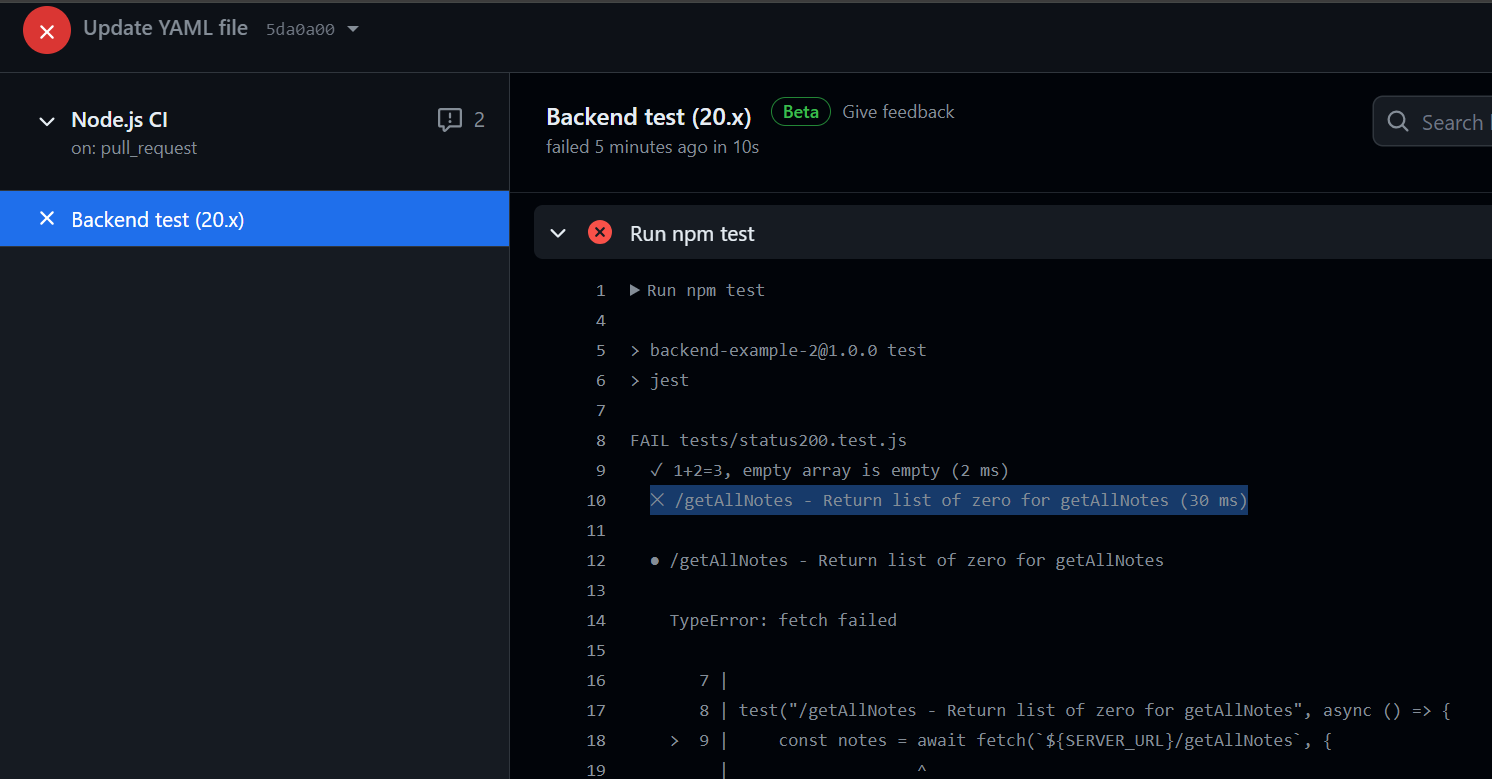
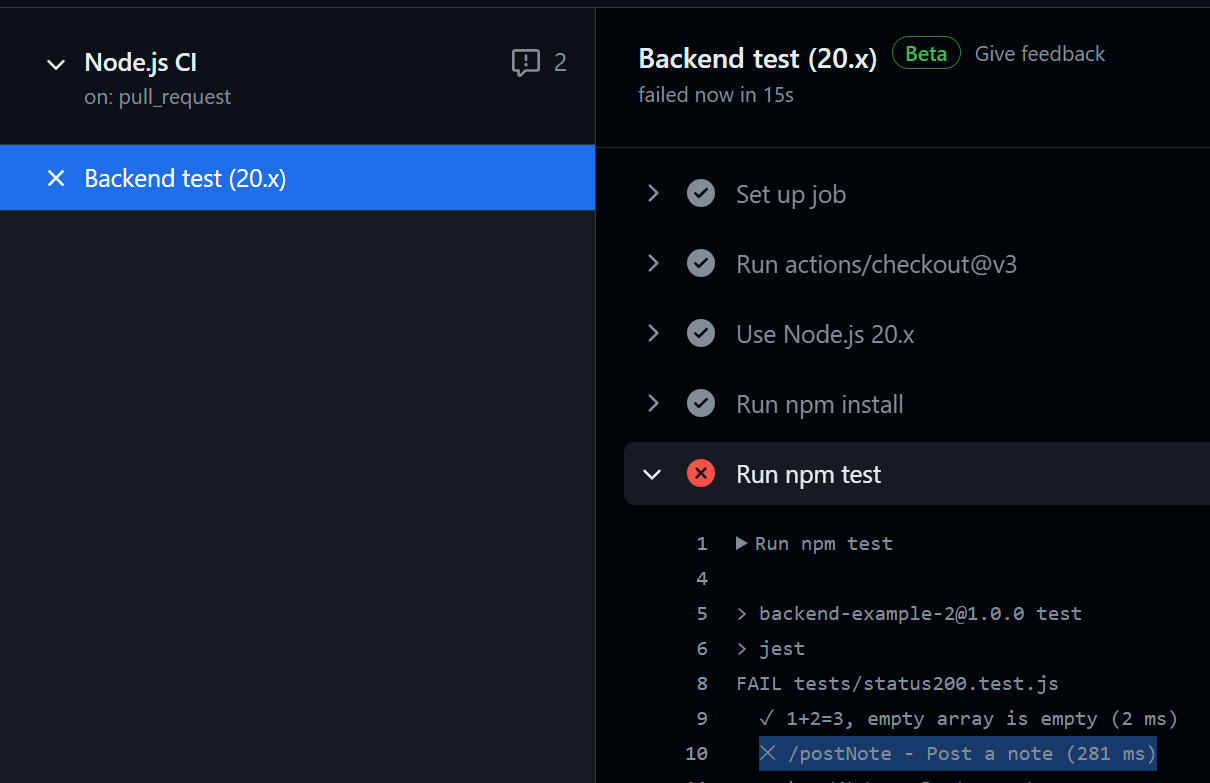
Change tests + starter code

diff --git a/README.md b/README.md
@@ -88,29 +88,35 @@ A lot of the visualization for this lab will be shown through GitHub Desktop, bu
    ```javascript
    const SERVER_URL = "http://localhost:4000";
 
-   test("/getAllNotes - Return list of zero for getAllNotes", async () => {
-     const notesRes = await fetch(`${SERVER_URL}/getAllNotes`, {
-       method: "GET",
+   test("/postNote - Post a note", async () => {
+     const title = "NoteTitleTest";
+     const content = "NoteTitleContent";
+
+     const postNoteRes = await fetch(`${SERVER_URL}/postNote`, {
+       method: "POST",
        headers: {
          "Content-Type": "application/json",
        },
+       body: JSON.stringify({
+         title: title,
+         content: content,
+       }),
      });
 
-     const notesBody = await notesRes.json();
-     const notes = notesBody.response;
+     const postNoteBody = await postNoteRes.json();
 
-     expect(notesRes.status).toBe(200);
-     expect(notes.length).toBe(0);
+     expect(postNoteRes.status).toBe(200);
+     expect(postNoteBody.response).toBe("Note added succesfully.");
    });
    ```
 
-   This is similar to how our frontend would handle a response from our backend, using `fetch` to ping the backend, but we will instead use the response to verify that a) the API returns the right response and b) the `notes` array is of the right length given no notes are in the database.
+   This is similar to how our frontend would handle a response from our backend, using `fetch` to ping the backend, but we will instead use the response to verify that a) the API returns the right status code and b) the response string is correct.
    Run `npm test` again, and verify the code works:
 
    ````
     PASS  tests/status200.test.js
     √ 1+2=3, empty array is empty (4 ms)
-    √ /getAllNotes - Return list of zero for getAllNotes (113 ms)
+    √ /postNote - Post a note (113 ms)
 
     Test Suites: 1 passed, 1 total
     Tests:       2 passed, 2 total
@@ -127,13 +133,15 @@ A lot of the visualization for this lab will be shown through GitHub Desktop, bu
 6. Go back to GitHub, and click on the `Actions` tab. We will set up our first workflow for automating code testing using Node.js and the Jest test suite we have developed so far. Search for `Node.js` on the search bar, and click `Configure` on the workflow provided by GitHub Actions.
    ![](/images/5.png)
 
-   This leads to a Node.js workflow template.
-   Before breaking down each component of this template, it is **_heavily encouraged_** to read the [About workflows](https://docs.github.com/en/actions/using-workflows/about-workflows) page from GitHub Actions to understand workflow basics (up until the end of `Understanding the workflow file`).
-   The breakdown proceeds as follows:
-   **_[Add breakdown here]_**
-   We can press `Commit changes...` on the top right to add the YAML file to our repository (commiting directly to the `main` branch).
-   If we go to the `Actions` tab again, we can see that our workflow was ran once, with three different jobs that have _failed._ This is normal, as our workflow has not been configured correctly. We will fix this soon, but you are free to explore the steps that were ran during the process.
-   ![](/images/6.png)
+This leads to a Node.js workflow template.
+Before breaking down each component of this template, it is **_heavily encouraged_** to read the [About workflows](https://docs.github.com/en/actions/using-workflows/about-workflows) page from GitHub Actions to understand workflow basics (up until the end of `Understanding the workflow file`).
+
+The breakdown proceeds as follows:
+**_[Add breakdown here]_**
+We can press `Commit changes...` on the top right to add the YAML file to our repository (commiting directly to the `main` branch).
+If we go to the `Actions` tab again, we can see that our workflow was ran once, with three different jobs that have _failed._
+This is normal, as our workflow has not been configured correctly. We will fix this soon, but you are free to explore the steps that were ran during the process.
+![](/images/6.png)
 
 7. Go to the `Settings` tab, then under `Rules` click `Ruleset`. [Rulesets](https://docs.github.com/en/repositories/configuring-branches-and-merges-in-your-repository/managing-rulesets/available-rules-for-rulesets) help you to control how people can interact with branches and tags in a repository. We will set up rules that prevent direct commits to our main branch, such that pull requests that pass certain workflow jobs will be required to make any changes.
    Configure a ruleset with the following settings:
@@ -185,14 +193,14 @@ A lot of the visualization for this lab will be shown through GitHub Desktop, bu
        - run: npm test
    ```
 
-   **_[Add small breakdown here]_**
-   Commit the changes, and publish the branch.
-   Given this new branch, go back to GitHub and open up a pull request.
-   You may catch a glimpse of the above workflow being prepared.
-   ![](image.png)
-   The name of the job matches the status check outlined in our ruleset, a job that _must be successful_ if the PR is to be merged to `main`.
-   However, this job is set to fail: our basic arithmetic + array check test passes, but our backend test will crash given _our backend is not running in the GitHub Actions virtual machine._ Your first task for this lab is to fix that.
-   ![](/images/8.png)
+**_[Add small breakdown here]_**
+Commit the changes, and publish the branch.
+Given this new branch, go back to GitHub and open up a pull request.
+You may catch a glimpse of the above workflow being prepared.
+![](image.png)
+The name of the job matches the status check outlined in our ruleset, a job that _must be successful_ if the PR is to be merged to `main`.
+However, this job is set to fail: our basic arithmetic + array check test passes, but our backend test will crash given _our backend is not running in the GitHub Actions virtual machine._ Your first task for this lab is to fix that.
+![](/images/8.png)
 
 ---
 
@@ -221,6 +229,11 @@ Finish the task by merging the pull request, and deleting the `fix/workflow-chan
     Once in this branch, add the following code to your `status200.test.js` file:
 
     ```javascript
+    test("/getAllNotes - Return list of zero notes for getAllNotes", async () => {
+      // Code here
+      expect(false).toBe(true);
+    });
+
     test("/getAllNotes - Return list of two notes for getAllNotes", async () => {
       // Code here
       expect(false).toBe(true);
@@ -246,12 +259,12 @@ Finish the task by merging the pull request, and deleting the `fix/workflow-chan
       expect(false).toBe(true);
     });
 
-    test("/deleteAllNotes - Delete one note.", async () => {
+    test("/deleteAllNotes - Delete one note", async () => {
       // Code here
       expect(false).toBe(true);
     });
 
-    test("/deleteAllNotes - Delete three notes.", async () => {
+    test("/deleteAllNotes - Delete three notes", async () => {
       // Code here
       expect(false).toBe(true);
     });
@@ -274,9 +287,11 @@ You are responsible for completing the tests such that they check for an appropr
 
 - You may have more than one `expect` matcher (or other types of matchers) to satisfy the condition(s) required by the test.
 - Remember each test is supposed to be independent. There should be no need to have information from one test affect another.
-- Most of these test cases allow for checking both the status and the right body response (e.g. `[number of notes] notes deleted.`). It is encouraged you cover this in your test cases too.
-- You may find that one of these tests actually highlights erroneous code present in our backend. You may fix it after finding it within this PR.
+- All of these test cases allow for checking both the status and the right body response (e.g. `[number of notes] notes deleted.`). It is encouraged to check both of these for this lab.
+- As you develop, you may find that one or more tests actually highlight erroneous code present in our backend. You may fix it after finding it within this PR.
 
 ---
 
 After completing the above, commit and push your changes. The automated tests should now pass, and the `Merge pull request` button should be green instead of gray. Do not actually merge the PR at the end.
+![](/images/10.png)
+Your lab is now complete and ready for submission.
